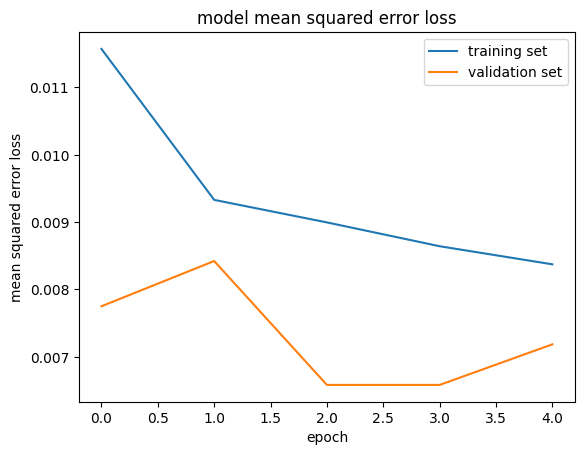
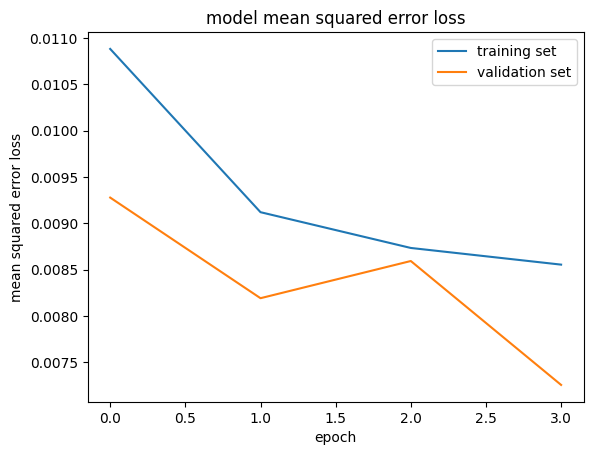
minor clean up - final model

diff --git a/CarND-Behavioral-Cloning-P3/src/model.py b/CarND-Behavioral-Cloning-P3/src/model.py
@@ -8,17 +8,18 @@ with open('../data/driving_log.csv') as csvfile:
     for line in reader:
         lines.append(line)
 
-steerCorrection = 0.2
-w = 320#70
-h = 160#25
-
-w_crop = 70
-h_crop = 25
-
-cnt = 0
+# Global Param
+steerCorrection = 0.2 # needed for left,right camera steering value  correction
+w = 320
+h = 160
+w_crop = 70 # resized to limit visibility
+h_crop = 25 # reszied to limit visibility
 images = []
 measurements = []
+
 for line in lines:
+    if line[3] =="steering":
+        continue
     measurement = float(line[3]) 
 
     for i in range(3):
@@ -27,32 +28,28 @@ for line in lines:
         if np.shape(image) == ():
             continue
         image = cv2.resize(image, dsize=(w, h))
-
         if i == 1: # left camera
             measurement += steerCorrection
         elif i == 2: # right camera
             measurement -= steerCorrection
-        cnt += 1
-    #if cnt > 1000:
-    #    break
-    # image = np.expand_dims(image, 0) 
     measurements.append(measurement)
     images.append(image)
     
-# Data Augmentation
-
+# Data Augmentation - append left/right flipped image 
 augImages = images
 augMeasurements = measurements
 augmented_images, augmented_measurements = [], []
 for image, measurement in zip(images, measurements):
   augmented_images.append(image)
   augmented_measurements.append(measurement)
-  augmented_images.append(cv2.flip(image,1))       
+  augmented_images.append(cv2.flip(image,1)) # Flip      
   augmented_measurements.append(measurement *-1.0)
 
 X_train = np.array(augmented_images)
 Y_train = np.array(augmented_measurements)
 
+
+# tf layer
 import tensorflow as tf
 from keras import backend as K
 from keras.models import Sequential
@@ -65,12 +62,18 @@ model = Sequential()
 model.add(Lambda(lambda x: x /255.0 -0.5,  
           input_shape = (160,320,3)))
 model.add(Cropping2D(cropping=((70, 25),(0,0))))
-# Testing
+
+# Three CNN architectures tested:
+# 1. Testing 
+# 2. LeNet
+# 3. NVIDIA
+
+# 1. Testing
 #model.add(Flatten())#w,h,3)))
 #model.add(Dense(1))
 #model.compile(loss='mse', optimizer='adam')
 
-# Lenet
+# 2. LeNet
 #model.add(Conv2D(6,5,5,activation="relu"))
 #model.add(MaxPooling2D(padding='same'))
 #model.add(Conv2D(6,5,5,activation="relu"))
@@ -82,16 +85,16 @@ model.add(Cropping2D(cropping=((70, 25),(0,0))))
 
 # NVIDIA
 model.add(Conv2D(24,5,2,activation="relu", padding='same'))
-model.add(Dropout(0.2))
+model.add(Dropout(0.5)) # Prevent overfitting
 model.add(Conv2D(36,5,2,activation="relu",padding='same'))
-model.add(Dropout(0.2))
-#model.add(MaxPooling2D(padding='same'))
+#model.add(Dropout(0.5)) # Prevent overfitting
 model.add(Conv2D(48,5,2,activation="relu",padding='same'))
-model.add(Dropout(0.2))
+#model.add(Dropout(0.5)) # Prevent overfittingg
 model.add(Conv2D(64,3,activation="relu",padding='same'))
-model.add(Dropout(0.2))
+#model.add(Dropout(0.5)) # Prevent overfitting
 model.add(Conv2D(64,3,activation="relu",padding='same'))
-model.add(Dropout(0.5))
+model.add(MaxPooling2D(padding='same'))
+model.add(Dropout(0.5)) # Prevent overfitting
 model.add(Flatten())
 model.add(Dense(100))
 model.add(Dense(50))
@@ -99,7 +102,7 @@ model.add(Dense(10))
 model.add(Dense(1))
 
 model.compile(loss='mse', optimizer='adam')
-object_history = model.fit(X_train, Y_train, validation_split = 0.2, shuffle = True, epochs=10)
+object_history = model.fit(X_train, Y_train, validation_split = 0.2, shuffle = True, epochs=4)
 
 ### print the keys contained in the history object
 print(object_history.history.keys())
@@ -114,6 +117,5 @@ plt.xlabel('epoch')
 plt.legend(['training set', 'validation set'], loc='upper right')
 #plt.show()
 plt.savefig("Loss_train_val.png", bbox_inches='tight')
-
 
 model.save('model.h5')
